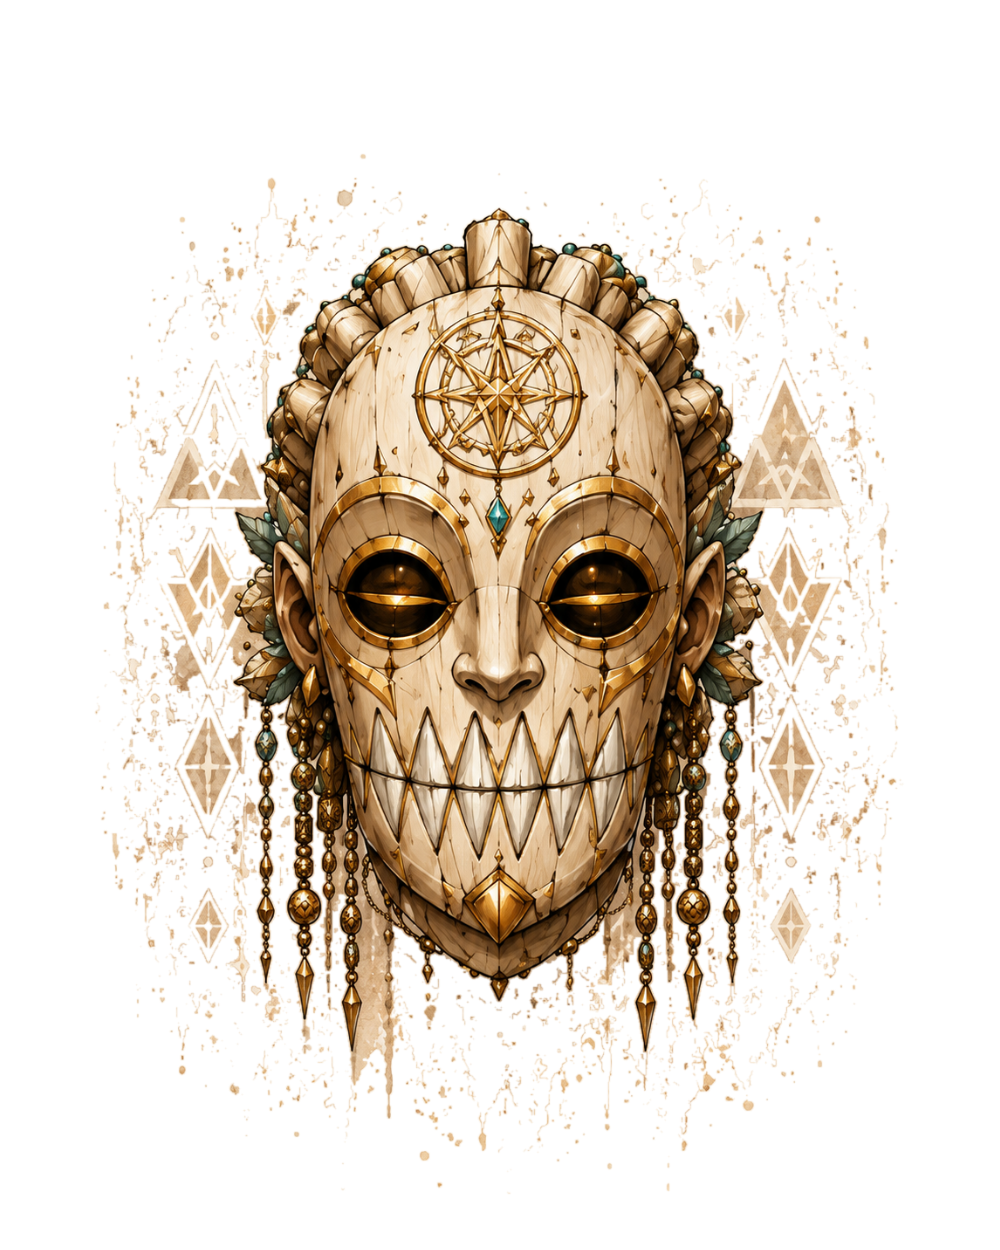
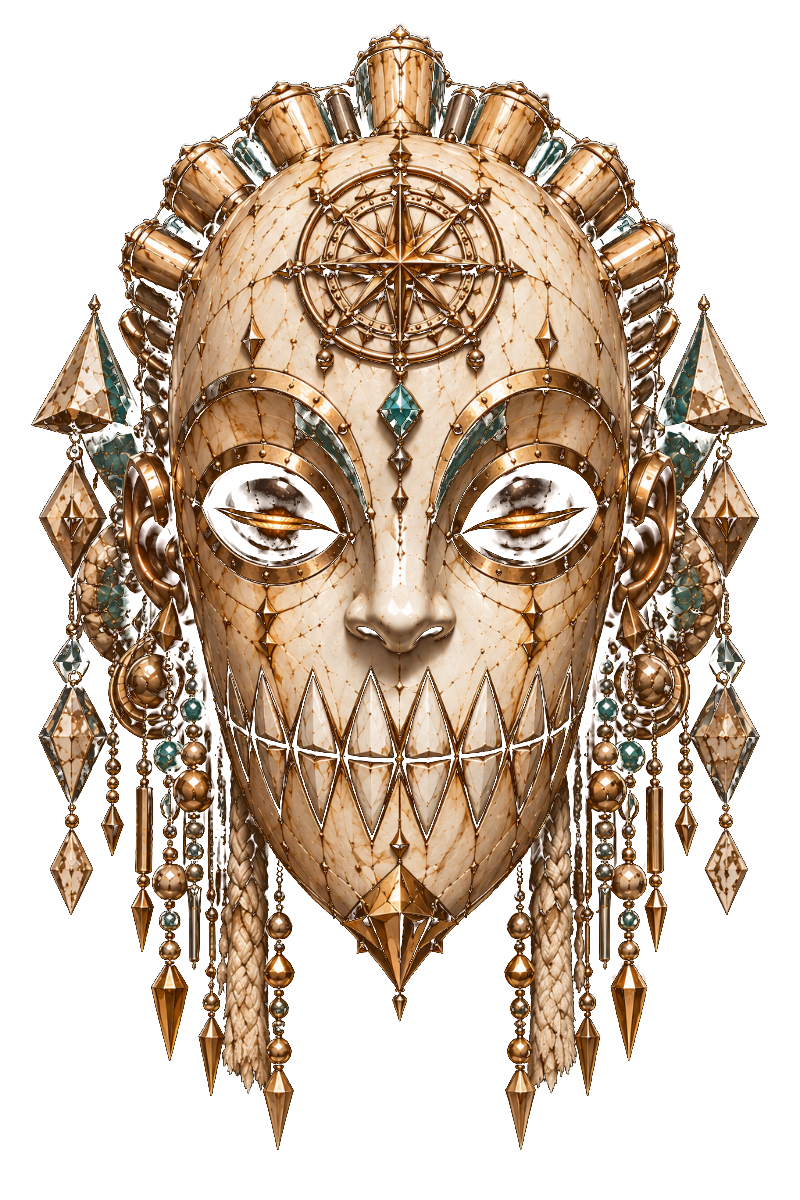
Add files via upload

diff --git a/masks.js b/masks.js
@@ -1,9 +1,9 @@
 export const MASKS = [
-  { id: 'solar', heroWide: 'assets/hero-eclipse.png', essence: "When the horizon breaks, she is already there. Solar is Nyota at full light, the celebration that needs no permission. Her sets open like sunrise: slow gold, then heat, then everything at once. She plays for the moment you stop watching and start rising.", appears: "Daytime festivals · rooftop rituals · the first set after a long winter", ritual: [{"name":"The Ascent","text":"Warm tribal drums gather the crowd like first light on a hillside."},{"name":"The Blaze","text":"Uplifting Afro House at full radiance, hands open, eyes closed."},{"name":"The Glow","text":"She leaves you warm. The light stays long after the set ends."}],  name: 'SOLAR', line: "When it's time to rise.", motto: 'Rise with the sun.', creed: ['We dance with the light.', 'We lead with love.', 'We rise together.'], figure: 'assets/form-solar.png', dj: 'assets/dj-solar.png', traits: ['Radiant', 'Confident', 'Joyful'], sound: ['Afro House', 'Tribal', 'Uplifting'], setTitle: 'Afro House Set', setElements: 'Day · Sun · Fire', setKey: 'Celebration', poster: 'uploads/ChatGPT Image May 18, 2026, 02_26_31 PM.png', img: 'assets/solar_m.png', alt: 'uploads/Solar.png', accent: '#d4a437', accentDeep: '#a5761c', glow: 'rgba(212,164,55,.22)' },
-  { id: 'lunar', heroWide: 'assets/hero-lunar.png', essence: "She arrives when the noise falls away. Lunar is the inward tide: melodic, deep, unhurried. Her sets are for the feelings you carry but cannot name. She does not lift you; she holds you, and lets the water do the rest.", appears: "Late-night rooms · full-moon gatherings · the hour before sunrise", ritual: [{"name":"The Descent","text":"Deep, melodic openings that lower the room's pulse to hers."},{"name":"The Tide","text":"Soulful waves that pull memory to the surface and let it move."},{"name":"The Surfacing","text":"You come back lighter than you went down."}], creed: ["We feel before we know.","We heal in the dark.","We move by moonlight."],  name: 'LUNAR', line: "When it's time to feel.", motto: 'Move by moonlight.', figure: 'assets/form-lunar.png', dj: 'assets/dj-lunar.png', traits: ['Intuitive', 'Feminine', 'Healing'], sound: ['Melodic House', 'Deep', 'Soulful'], setTitle: 'Healing Set', setElements: 'Night · Moon · Water', setKey: 'Inspiration', poster: 'uploads/ChatGPT Image May 18, 2026, 02_26_28 PM.png', img: 'assets/lunar_m.png', alt: 'uploads/Lunar_Plain.png', accent: '#b8a7d9', accentDeep: '#7c6aa8', glow: 'rgba(184,167,217,.22)' },
-  { id: 'rhythm', heroWide: 'assets/hero-rhythm.png', essence: "Rhythm is the body's answer to every question. She is Nyota mid-festival, playful and electric, impossible to stand still near. Her sets are a conversation in drums: she asks, and ten thousand feet reply.", appears: "Festival mainstages · street carnivals · anywhere the ground can shake", ritual: [{"name":"The Call","text":"A single drum line, repeated until the crowd answers back."},{"name":"The Pulse","text":"Afro Tech at full charge. One groove, one body, no edges."},{"name":"The Release","text":"She drops the floor out and the whole field lifts off it."}], creed: ["We are one pulse.","We speak in drums.","We never stand still."],  name: 'RHYTHM', line: "When it's time to move.", motto: 'Feel the pulse.', figure: 'assets/form-rhythm.png', dj: 'assets/dj-rhythm.png', traits: ['Energetic', 'Playful', 'Connecting'], sound: ['Afro Tech', 'Festival', 'Groovy'], setTitle: 'Festival Set', setElements: 'Energy · Crowd · Pulse', setKey: 'Movement', poster: 'uploads/ChatGPT Image May 18, 2026, 02_26_27 PM.png', img: 'assets/rhythm_m.png', alt: 'uploads/Nyota_Rhythm.jpg', accent: '#53c7c0', accentDeep: '#23847e', glow: 'rgba(83,199,192,.20)' },
-  { id: 'ancestor', heroWide: 'assets/hero-ancestor.png', essence: "Before the beat, there was the drum. Ancestor is Nyota remembering: organic, rooted, sacred. Her sets reach backward to move forward: rhythms carried across oceans, played loud for the ones who could not stay.", appears: "Intimate ceremonies · exclusive gatherings · nights of remembrance", ritual: [{"name":"The Calling","text":"Organic textures and root rhythms summon the room to stillness."},{"name":"The Offering","text":"Sacred grooves passed hand to hand, generation to generation."},{"name":"The Blessing","text":"You leave carrying someone else's fire. That is the point."}], creed: ["We remember the ones before.","We carry their fire.","We dance because they dreamed."],  name: 'ANCESTOR', line: "When it's time to remember.", motto: 'We dance because they dreamed.', figure: 'assets/form-ancestor.png', dj: 'assets/dj-ancestor.png', traits: ['Wise', 'Grounded', 'Grateful'], sound: ['Organic House', 'Roots', 'Sacred'], setTitle: 'Exclusive Event', setElements: 'Roots · Spirit · Wisdom', setKey: 'Connection', poster: 'uploads/ChatGPT Image May 18, 2026, 02_26_25 PM.png', img: 'assets/ancestor_m.png', alt: 'uploads/Ancestor_Plain.png', accent: '#8c6239', accentDeep: '#8c6239', glow: 'rgba(140,98,57,.28)' },
-  { id: 'eclipse', heroWide: 'assets/hero-eclipse-form.png', essence: "Some nights ask for both. Eclipse is Nyota at the threshold, light and shadow in a single body, techno with a heartbeat. Her sets are a passage: you enter as one thing and you leave as another.", appears: "Warehouse depths · closing sets · the longest nights of the year", ritual: [{"name":"The Threshold","text":"Progressive layers dim the light until only the pulse remains."},{"name":"The Dark","text":"Driving techno at the bottom of the night. The turning point."},{"name":"The Return","text":"Dawn in the mix. Light and shadow, finally one."}], creed: ["We hold both light and shadow.","We end to begin.","We become one."],  name: 'ECLIPSE', line: 'When light and shadow become one.', motto: 'Light and shadow become one.', figure: 'assets/form-eclipse.png', dj: 'assets/dj-eclipse.png', traits: ['Balance', 'Transformation', 'Magic'], sound: ['Techno', 'Progressive', 'Journey'], setTitle: 'Techno Set', setElements: 'Dark · Duality · Transform', setKey: 'Rebirth', poster: 'uploads/ChatGPT Image May 18, 2026, 02_26_22 PM.png', img: 'assets/eclipse_m.png', alt: 'uploads/Eclispe_Plain.png', accent: '#d4b76a', accentDeep: '#1b1d2e', glow: 'rgba(201,179,126,.20)' }
+  { id: 'solar', heroWide: 'assets/world-solar.png', essence: "When the horizon breaks, she is already there. Solar is Nyota at full light, the celebration that needs no permission. Her sets open like sunrise: slow gold, then heat, then everything at once. She plays for the moment you stop watching and start rising.", appears: "Daytime festivals · rooftop rituals · the first set after a long winter", ritual: [{"name":"The Ascent","text":"Warm tribal drums gather the crowd like first light on a hillside."},{"name":"The Blaze","text":"Uplifting Afro House at full radiance, hands open, eyes closed."},{"name":"The Glow","text":"She leaves you warm. The light stays long after the set ends."}],  name: 'SOLAR', line: "When it's time to rise.", motto: 'Rise with the sun.', creed: ['We dance with the light.', 'We lead with love.', 'We rise together.'], figure: 'assets/solar_m.png', dj: 'assets/dj-solar.png', traits: ['Radiant', 'Confident', 'Joyful'], sound: ['Afro House', 'Tribal', 'Uplifting'], setTitle: 'Afro House Set', setElements: 'Day · Sun · Fire', setKey: 'Celebration', poster: 'uploads/ChatGPT Image May 18, 2026, 02_26_31 PM.png', img: 'assets/solar_m.png', alt: 'uploads/Solar.png', accent: '#d4a437', accentDeep: '#a5761c', glow: 'rgba(212,164,55,.22)' },
+  { id: 'lunar', heroWide: 'assets/world-lunar.png', essence: "She arrives when the noise falls away. Lunar is the inward tide: melodic, deep, unhurried. Her sets are for the feelings you carry but cannot name. She does not lift you; she holds you, and lets the water do the rest.", appears: "Late-night rooms · full-moon gatherings · the hour before sunrise", ritual: [{"name":"The Descent","text":"Deep, melodic openings that lower the room's pulse to hers."},{"name":"The Tide","text":"Soulful waves that pull memory to the surface and let it move."},{"name":"The Surfacing","text":"You come back lighter than you went down."}], creed: ["We feel before we know.","We heal in the dark.","We move by moonlight."],  name: 'LUNAR', line: "When it's time to feel.", motto: 'Move by moonlight.', figure: 'assets/lunar_m.png', dj: 'assets/dj-lunar.png', traits: ['Intuitive', 'Feminine', 'Healing'], sound: ['Melodic House', 'Deep', 'Soulful'], setTitle: 'Healing Set', setElements: 'Night · Moon · Water', setKey: 'Inspiration', poster: 'uploads/ChatGPT Image May 18, 2026, 02_26_28 PM.png', img: 'assets/lunar_m.png', alt: 'uploads/Lunar_Plain.png', accent: '#b8a7d9', accentDeep: '#7c6aa8', glow: 'rgba(184,167,217,.22)' },
+  { id: 'rhythm', heroWide: 'assets/world-rhythm.png', essence: "Rhythm is the body's answer to every question. She is Nyota mid-festival, playful and electric, impossible to stand still near. Her sets are a conversation in drums: she asks, and ten thousand feet reply.", appears: "Festival mainstages · street carnivals · anywhere the ground can shake", ritual: [{"name":"The Call","text":"A single drum line, repeated until the crowd answers back."},{"name":"The Pulse","text":"Afro Tech at full charge. One groove, one body, no edges."},{"name":"The Release","text":"She drops the floor out and the whole field lifts off it."}], creed: ["We are one pulse.","We speak in drums.","We never stand still."],  name: 'RHYTHM', line: "When it's time to move.", motto: 'Feel the pulse.', figure: 'assets/rhythm_m.png', dj: 'assets/dj-rhythm.png', traits: ['Energetic', 'Playful', 'Connecting'], sound: ['Afro Tech', 'Festival', 'Groovy'], setTitle: 'Festival Set', setElements: 'Energy · Crowd · Pulse', setKey: 'Movement', poster: 'uploads/ChatGPT Image May 18, 2026, 02_26_27 PM.png', img: 'assets/rhythm_m.png', alt: 'uploads/Nyota_Rhythm.jpg', accent: '#53c7c0', accentDeep: '#23847e', glow: 'rgba(83,199,192,.20)' },
+  { id: 'ancestor', heroWide: 'assets/world-ancestor.png', essence: "Before the beat, there was the drum. Ancestor is Nyota remembering: organic, rooted, sacred. Her sets reach backward to move forward: rhythms carried across oceans, played loud for the ones who could not stay.", appears: "Intimate ceremonies · exclusive gatherings · nights of remembrance", ritual: [{"name":"The Calling","text":"Organic textures and root rhythms summon the room to stillness."},{"name":"The Offering","text":"Sacred grooves passed hand to hand, generation to generation."},{"name":"The Blessing","text":"You leave carrying someone else's fire. That is the point."}], creed: ["We remember the ones before.","We carry their fire.","We dance because they dreamed."],  name: 'ANCESTOR', line: "When it's time to remember.", motto: 'We dance because they dreamed.', figure: 'assets/ancestor_m.png', dj: 'assets/dj-ancestor.png', traits: ['Wise', 'Grounded', 'Grateful'], sound: ['Organic House', 'Roots', 'Sacred'], setTitle: 'Exclusive Event', setElements: 'Roots · Spirit · Wisdom', setKey: 'Connection', poster: 'uploads/ChatGPT Image May 18, 2026, 02_26_25 PM.png', img: 'assets/ancestor_m.png', alt: 'uploads/Ancestor_Plain.png', accent: '#8c6239', accentDeep: '#8c6239', glow: 'rgba(140,98,57,.28)' },
+  { id: 'eclipse', heroWide: 'assets/world-eclipse.png', essence: "Some nights ask for both. Eclipse is Nyota at the threshold, light and shadow in a single body, techno with a heartbeat. Her sets are a passage: you enter as one thing and you leave as another.", appears: "Warehouse depths · closing sets · the longest nights of the year", ritual: [{"name":"The Threshold","text":"Progressive layers dim the light until only the pulse remains."},{"name":"The Dark","text":"Driving techno at the bottom of the night. The turning point."},{"name":"The Return","text":"Dawn in the mix. Light and shadow, finally one."}], creed: ["We hold both light and shadow.","We end to begin.","We become one."],  name: 'ECLIPSE', line: 'When light and shadow become one.', motto: 'Light and shadow become one.', figure: 'assets/eclipse_m.png', dj: 'assets/dj-eclipse.png', traits: ['Balance', 'Transformation', 'Magic'], sound: ['Techno', 'Progressive', 'Journey'], setTitle: 'Techno Set', setElements: 'Dark · Duality · Transform', setKey: 'Rebirth', poster: 'uploads/ChatGPT Image May 18, 2026, 02_26_22 PM.png', img: 'assets/eclipse_m.png', alt: 'uploads/Eclispe_Plain.png', accent: '#d4b76a', accentDeep: '#1b1d2e', glow: 'rgba(201,179,126,.20)' }
 ];
 export const ADAPTS = ['Masks shift her energy', 'Music matches the phase', 'Each set is a ritual', 'Each experience is unique', 'Nyota is the cycle'];
 export const LINKS = {

diff --git a/support.js b/support.js
@@ -483,70 +483,6 @@
   function walkChildren(node, host) {
     return [...node.childNodes].map((c) => walk(c, host)).filter((b) => b != null);
   }
-  var SLIDE_ID_VALUE_RE = /^[0-9a-f]{8}$/;
-  var DECK_CONTROL_FLOW_RE = /^(sc-if|sc-for|sc-else|dc-import|x-import)$/;
-  var DECK_AUX_RE = /^(template|script|style|sc-helmet|helmet)$/;
-  function isDeckMountTag(el) {
-    if (el.localName === "deck-stage") return true;
-    return el.localName === "x-import" && (el.getAttribute("component-from-global-scope") || "") === "deck-stage";
-  }
-  function walkDeckChildren(el, host) {
-    const pairs = [...el.childNodes].map((c) => ({ c, b: walk(c, host) })).filter((p) => p.b !== null);
-    const kids = pairs.map((p) => p.b);
-    const seen = /* @__PURE__ */ new Set();
-    const wsSeen = /* @__PURE__ */ new Map();
-    const keys = [];
-    const nextSlideId = new Array(pairs.length);
-    {
-      let upcoming = null;
-      for (let j = pairs.length - 1; j >= 0; j--) {
-        const n = pairs[j].c;
-        if (n.nodeType === Node.ELEMENT_NODE) {
-          const t = n.localName;
-          upcoming = !DECK_AUX_RE.test(t) && !DECK_CONTROL_FLOW_RE.test(t) ? n.getAttribute("data-om-slide-id") : null;
-        }
-        nextSlideId[j] = upcoming;
-      }
-    }
-    for (let j = 0; j < pairs.length; j++) {
-      const { c } = pairs[j];
-      if (c.nodeType === Node.TEXT_NODE) {
-        if ((c.nodeValue ?? "").trim() === "") {
-          const base = nextSlideId[j] ? "omid-ws:" + nextSlideId[j] : "omid-ws:aux";
-          const n = wsSeen.get(base) ?? 0;
-          wsSeen.set(base, n + 1);
-          keys.push(n === 0 ? base : base + ":" + n);
-          continue;
-        }
-        return { kids, keys: null };
-      }
-      if (c.nodeType !== Node.ELEMENT_NODE) {
-        keys.push(j);
-        continue;
-      }
-      const child = c;
-      const tag = child.localName;
-      if (DECK_AUX_RE.test(tag)) {
-        keys.push(j);
-        continue;
-      }
-      if (DECK_CONTROL_FLOW_RE.test(tag)) return { kids, keys: null };
-      const v = child.getAttribute("data-om-slide-id");
-      if (!v || !SLIDE_ID_VALUE_RE.test(v) || seen.has(v)) {
-        return { kids, keys: null };
-      }
-      seen.add(v);
-      keys.push("omid:" + v);
-    }
-    return { kids, keys };
-  }
-  function renderDeckKids(kids, kidKeys, vals, ctx) {
-    return kids.map((b, j) => {
-      const k = kidKeys ? kidKeys[j] : j;
-      const out = b(vals, ctx, k);
-      return kidKeys != null && typeof out === "string" ? h(getReact().Fragment, { key: k }, out) : out;
-    });
-  }
   function walk(node, host) {
     if (node.nodeType === Node.TEXT_NODE) return walkText(node);
     if (node.nodeType !== Node.ELEMENT_NODE) return null;
@@ -705,9 +641,7 @@
     const wrap = tplId != null || styleGet != null;
     const { propGetters, hintSize } = collectProps(el, "x-import", host);
     const hasContent = el.children.length > 0 || !!(el.textContent || "").trim();
-    const deckKeyed = hasContent && isDeckMountTag(el) ? walkDeckChildren(el, host) : null;
-    const kids = deckKeyed ? deckKeyed.kids : hasContent ? walkChildren(el, host) : [];
-    const kidKeys = deckKeyed?.keys ?? null;
+    const kids = hasContent ? walkChildren(el, host) : [];
     const urlBindable = fromRaw.includes("{{");
     if (urls.length && !urlBindable) {
       let prev;
@@ -762,9 +696,7 @@
         });
         return wrapper ? h("div", wrapper, ph) : ph;
       }
-      if (kids.length) {
-        props.children = renderDeckKids(kids, kidKeys, vals, ctx);
-      }
+      if (kids.length) props.children = kids.map((b, j) => b(vals, ctx, j));
       return wrapper ? h("div", wrapper, h(C, props)) : h(C, props);
     };
   }
@@ -790,9 +722,7 @@
     const inlineOnly = el.childNodes.length > 0 && !NEVER_CONTENT_KEYED.has(realTag) && el.querySelector(NOT_INLINE_SELECTOR) === null;
     const keySuffix = inlineOnly ? "|" + contentKey(el) : "";
     const { propGetters, pseudoClasses } = collectProps(el, "dom", host);
-    const deckKeyed = isDeckMountTag(el) ? walkDeckChildren(el, host) : null;
-    const kids = deckKeyed ? deckKeyed.kids : walkChildren(el, host);
-    const kidKeys = deckKeyed?.keys ?? null;
+    const kids = walkChildren(el, host);
     return (vals, ctx, key) => {
       const props = {
         key: key + keySuffix,
@@ -809,7 +739,7 @@
       if (pseudoClasses.length) {
         props.className = [props.className, ...pseudoClasses].filter(Boolean).join(" ");
       }
-      return h(realTag, props, ...renderDeckKids(kids, kidKeys, vals, ctx));
+      return h(realTag, props, ...kids.map((b, j) => b(vals, ctx, j)));
     };
   }
 

diff --git a/Nyota.dc.html b/Nyota.dc.html
@@ -22,7 +22,7 @@
 <meta name="twitter:title" content="NYOTA | Afro House &amp; Afro Tech DJ">
 <meta name="twitter:description" content="Five masks. One spirit. Afro House &amp; Afro Tech.">
 <link rel="icon" type="image/png" href="assets/icon-social.png">
-<link rel="preload" as="image" href="assets/hero-wide.jpg">
+<link rel="preload" as="image" href="assets/hero-eclipse-queen.png">
 <script type="application/ld+json">{"@context":"https://schema.org","@type":"MusicGroup","name":"Nyota","alternateName":"Nyota Muzik","genre":["Afro House","Afro Tech","Melodic House","Organic House","Techno"],"description":"Nyota is an Afro House and Afro Tech DJ and producer performing through five celestial masks: Solar, Lunar, Rhythm, Ancestor and Eclipse.","url":"https://nyotamuzik.com/","image":"https://nyotamuzik.com/assets/icon-social.png","sameAs":["https://open.spotify.com/artist/4nv8RpsA8VQ7mVHj90q1jl","https://www.youtube.com/@NyotaMuzik","https://www.instagram.com/nyotamuzik/"],"track":{"@type":"MusicRecording","name":"Take Me Back","byArtist":{"@type":"MusicGroup","name":"Nyota"}}}</script>
 <link rel="preconnect" href="https://fonts.googleapis.com">
 <link href="https://fonts.googleapis.com/css2?family=Cinzel:wght@400;500&family=Cormorant+Garamond:ital,wght@0,400;0,500;1,400;1,500&family=Inter:wght@300;400;500&display=swap" rel="stylesheet">
@@ -47,7 +47,7 @@ a:hover { color: #f7f2e8; }
 <header id="top" onClick="{{ heroSkip }}" style="position:relative;z-index:1;height:100vh;min-height:680px;box-sizing:border-box;overflow:hidden">
   <a href="{{ todayHref }}" onClick="{{ maskClick }}" title="Enter this form" ref="{{ heroZoomRef }}" style="position:absolute;inset:0;display:block;will-change:transform">
     <div style="position:absolute;inset:0;clip-path:{{ maskClip }};transition:clip-path 3.6s cubic-bezier(.3,.7,.2,1), filter 2.8s ease;filter:{{ maskFilter }}">
-      <img ref="{{ heroImgRef }}" src="assets/hero-wide.jpg" alt="Nyota, the {{ todayName }} form" style="position:absolute;inset:-6% 0 0;width:100%;height:112%;object-fit:cover;object-position:left 30%;will-change:transform" loading="eager"></img>
+      <img ref="{{ heroImgRef }}" src="assets/hero-eclipse-queen.png" alt="Nyota, the {{ todayName }} form" style="position:absolute;inset:-6% 0 0;width:100%;height:112%;object-fit:cover;object-position:left 30%;will-change:transform" loading="eager"></img>
       <div style="position:absolute;inset:-12%;background:radial-gradient(ellipse 42% 30% at 28% 72%, rgba(170,135,85,.10), rgba(0,0,0,0) 70%);filter:blur(26px);animation:drift 28s ease-in-out infinite;pointer-events:none"></div>
       <div style="position:absolute;inset:-12%;background:radial-gradient(ellipse 48% 34% at 70% 26%, rgba(200,160,95,.08), rgba(0,0,0,0) 70%);filter:blur(34px);animation:drift 36s ease-in-out 9s infinite reverse;pointer-events:none"></div>
       <div ref="{{ sheenRef }}" style="position:absolute;inset:0;mix-blend-mode:soft-light;background:radial-gradient(circle 320px at 50% 40%, rgba(255,240,200,.8), rgba(0,0,0,0) 70%);opacity:.5;pointer-events:none"></div>
